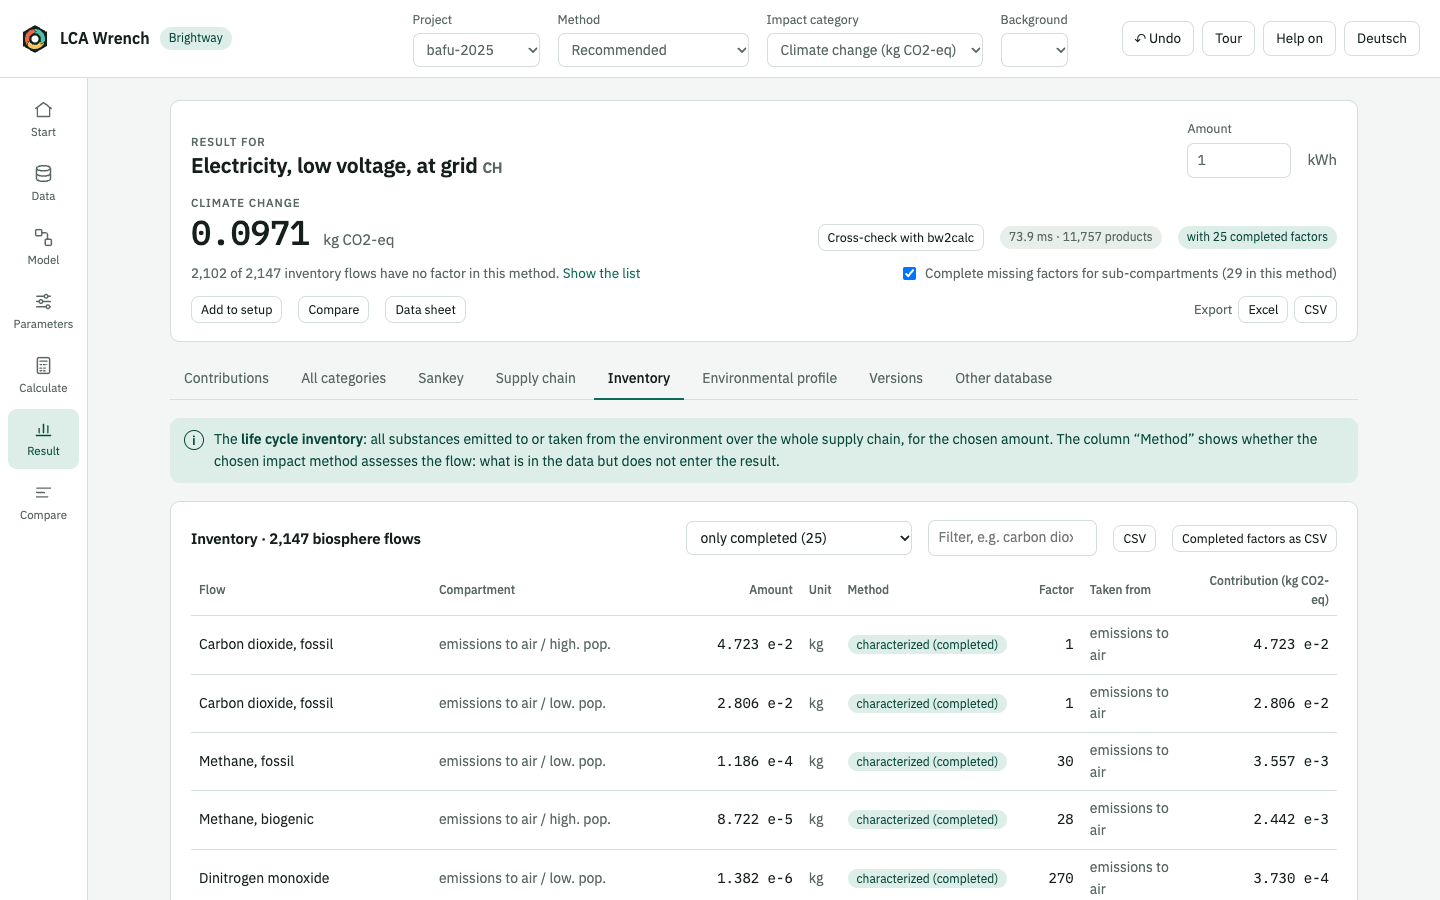
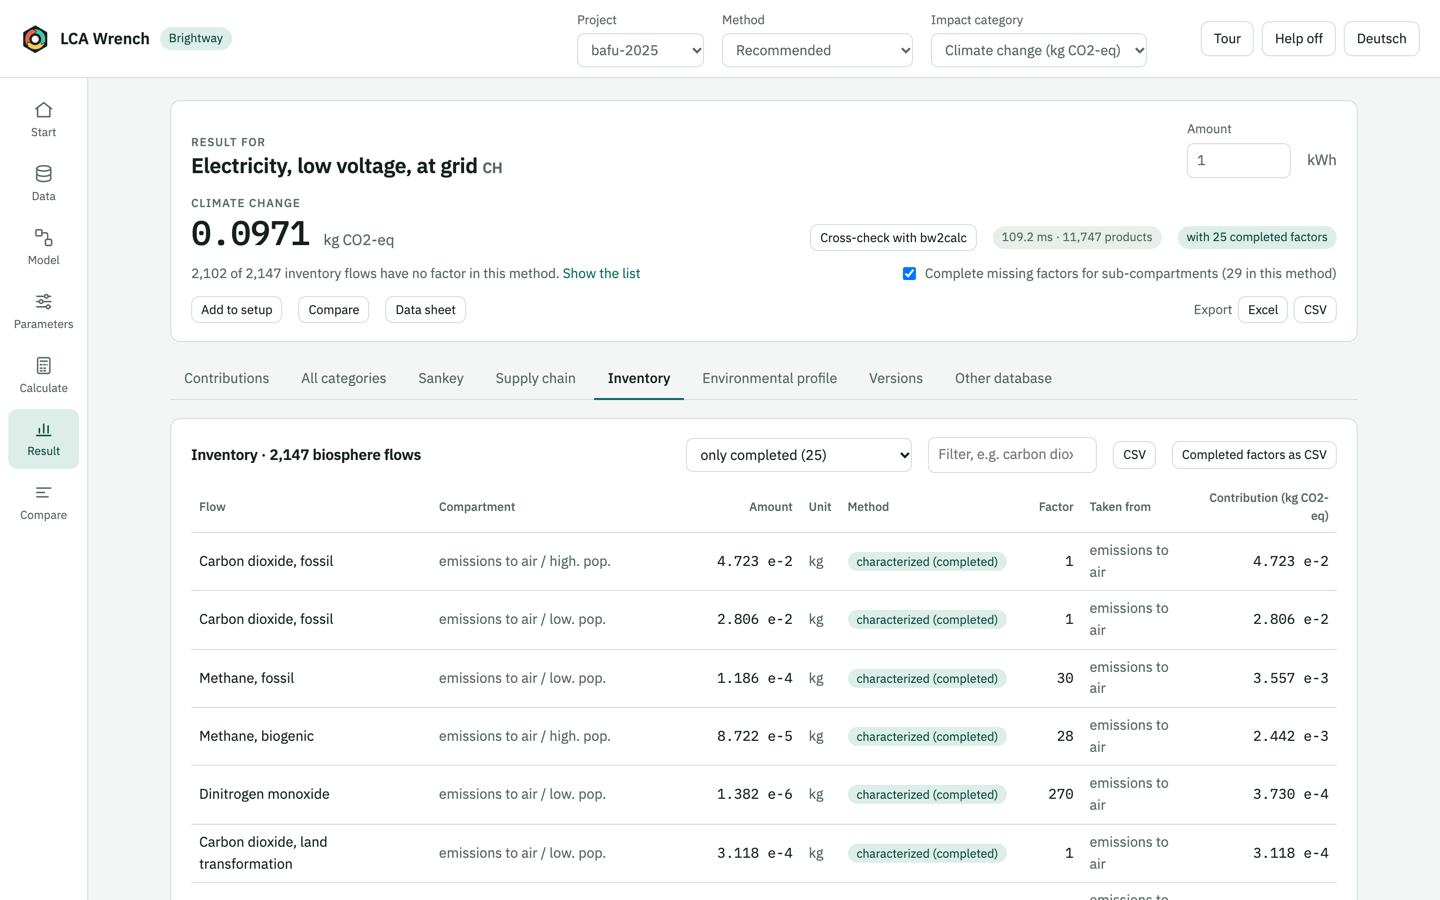
Installer: launcher also in ~/Applications, clearer end message; fresh screenshots; spelling

diff --git a/README.md b/README.md
@@ -58,7 +58,7 @@ Options: `python -m lca_wrench --port 8790 --no-browser`. `./start.sh` still wor
 | Uncertainty | Coupled Monte Carlo over all products of a setup; pedigree matrix; sensitivity with rank correlation, contribution to variance and Sobol indices ([docs](docs/uncertainty.md)) |
 | Background databases | BAFU 2025, BAFU 2026 with EF 3.1, ecoinvent, premise scenarios, EXIOBASE (hybrid models); one database, combined, or automatic ([docs](docs/data.md)) |
 | Flow mapping | Methods on one list of elementary flows are applied to products on the other where this holds ([docs](docs/flow-mapping.md)) |
-| Flows without a characterisation factor | In Result, Inventory, each flow shows whether the method has a factor (characterized, characterized (flow mapping), characterized (completed), not characterized). A filter lists the not characterized flows, with a labelled estimate where the name has a factor in another sub-compartment; counts are shown above the result and the columns are in the export ([docs](docs/completed-factors.md)) |
+| Flows without a characterization factor | In Result, Inventory, each flow shows whether the method has a factor (characterized, characterized (flow mapping), characterized (completed), not characterized). A filter lists the not characterized flows, with a labelled estimate where the name has a factor in another sub-compartment; counts are shown above the result and the columns are in the export ([docs](docs/completed-factors.md)) |
 | Completed factors | Some methods (the Ecological Scarcity 2021 methods of the BAFU-2025-v2 template) carry most factors only on the flow without sub-compartment. LCA Wrench completes them at calculation time, marks this in the result, and the list of added factors can be exported. On by default, can be switched off; stored methods are not modified ([docs](docs/completed-factors.md)) |
 | Real projects | Projects are never opened or converted without asking; test copies; Activity Browser 2 projects only as a copy; foreign databases are protected; changes from other programs are detected |
 | Language | English by default, German switchable in the interface |

diff --git a/docs/install.md b/docs/install.md
@@ -27,7 +27,8 @@ The Windows package has been tested less than the macOS one.
   minutes are needed. If the tested versions do not fit the computer (for example an older Intel Mac), the installer takes the
   same Brightway versions from `requirements-app.txt` and the newest matching versions of the other packages.
 - **Start LCA Wrench** starts the app on port 8787 and opens the browser. Closing the terminal window stops it.
-- At the end the installer puts an app **LCA Wrench** with the logo on the desktop and into the folder. It is a small
+- At the end the installer puts an app **LCA Wrench** with the logo on the desktop, into `~/Applications` (so
+  Spotlight and Launchpad find it) and into the folder. It is a small
   launcher (`LCA Wrench.app`, icon `mac/AppIcon.icns`) that opens "Start LCA Wrench" of this folder. It is created on the
   computer itself, so macOS does not block it. If the folder is moved, the launcher says so and the installer creates it
   again.

diff --git a/docs/validation.md b/docs/validation.md
@@ -52,7 +52,7 @@ Output of `scripts/validate.py` as run for this release (relative gap = |a − b
   same processed matrices; the small differences come from the solvers (LCA Wrench refines every solution
   iteratively, bw2calc solves once).
 - **Against the independent solver**, gaps of up to about 6e-8 remain whether the amounts are rounded to float32 or
-  not, and they are the same for bw2calc and LCA Wrench. Brightway stores exchange amounts and characterisation
+  not, and they are the same for bw2calc and LCA Wrench. Brightway stores exchange amounts and characterization
   factors in its processed matrices as **float32** (about 7 significant digits); the independent solver reads the
   amounts from SQLite in full precision. With the amounts in full precision (float64) the gap is larger (1.9e-7), which
   shows that it comes from the stored precision, not from the solvers. Results are therefore meaningful to about 6–7

diff --git a/docs/features.md b/docs/features.md
@@ -200,7 +200,7 @@ working copy. Data (names of activities, methods, the example model) is not tran
 `/ui/<version>/` (an identifier from modification time and size of all files), and the page itself is never cached, so
 after an update the browser does not mix old and new JavaScript modules.
 
-## Flows without a characterisation factor
+## Flows without a characterization factor
 
 In Result, Inventory, each inventory flow shows whether the selected method has a factor for it: characterized,
 characterized (flow mapping), characterized (completed) or not characterized. A filter shows only the not characterized
